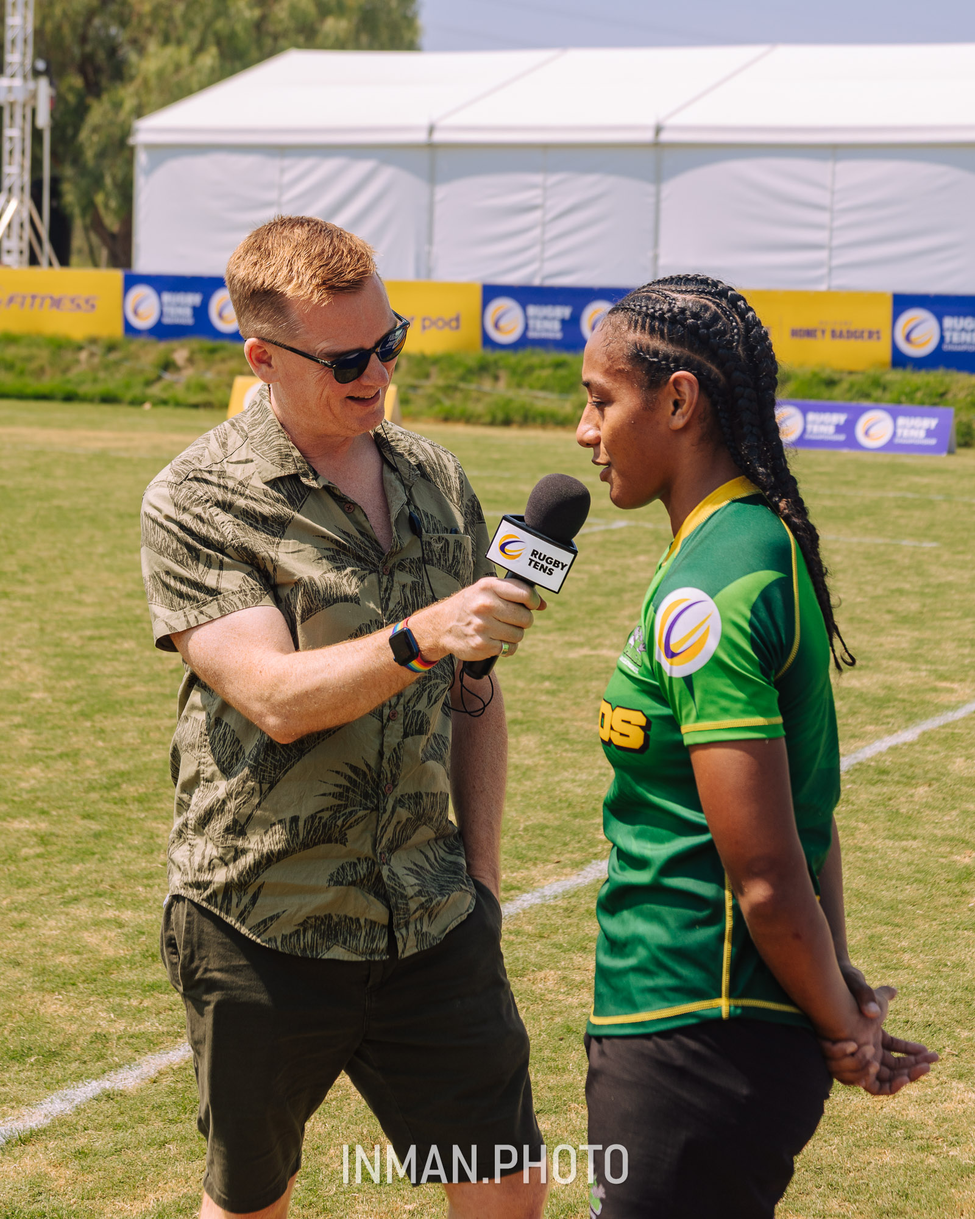
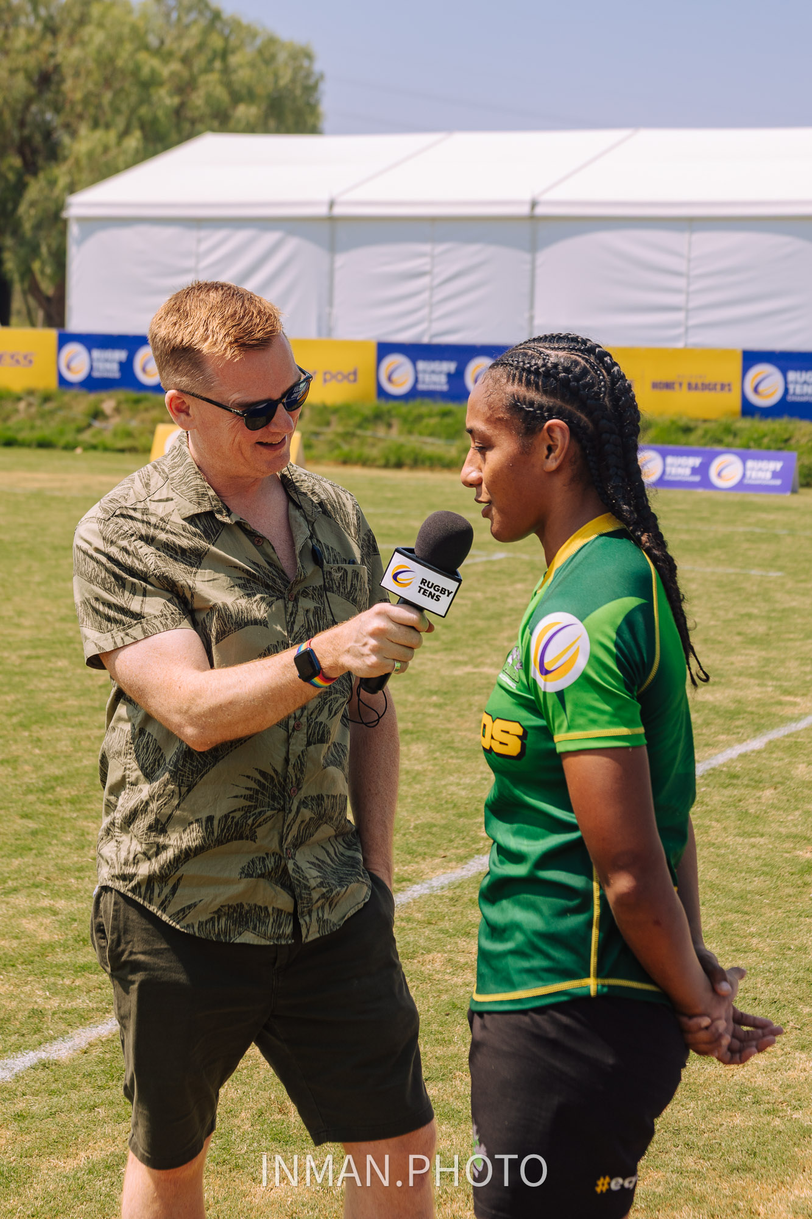
Photo replaced

diff --git a/index.html b/index.html
@@ -17,6 +17,7 @@
   <link rel="preconnect" href="https://fonts.gstatic.com" crossorigin />
   <link rel="preconnect" href="https://fonts.googleapis.com" />
   <link href="https://fonts.googleapis.com/css2?family=Signika:wght@400;700&display=swap" rel="stylesheet">
+  <link href="https://fonts.googleapis.com/css2?family=Lora:wght@700&display=swap" rel="stylesheet">
   <!-- End - Fonts -->
   <!-- Start - Fancybox Scripts -->
   <script src="https://cdn.jsdelivr.net/npm/@fancyapps/ui@5.0/dist/fancybox/fancybox.umd.js"></script>
@@ -34,6 +35,7 @@
                   fontFamily: {
                     'nothingyoucoulddo': ['Nothing You Could Do', 'cursive'],
                     'signika': ['Signika', 'sans-serif'],
+                    'lora': ['Lora', 'serif']
                   },
                 },
       },
@@ -50,7 +52,7 @@
     <nav id="nav" x-data="{ open: false }" role="navigation" class="w-full">
       <div class="container mx-auto flex flex-wrap items-center md:flex-no-wrap">
         <div class="mr-4 md:mr-8">
-          <a href="/" class="text-2xl font-signika font-bold">INMAN.PHOTO</a>
+          <a href="/" class="text-3xl font-lora font-bold">INMAN.PHOTO</a>
         </div>
         <div class="ml-auto md:hidden flex items-center justify-start">
           <button onclick="menuToggle()" @click="open = !open"
@@ -302,8 +304,8 @@
     <div class="max-w-screen-xl py-16 mx-auto">
       <div class="grid grid-cols-1 gap-8 text-center mx-auto">
         <div>
-          <p class="font-signika"><b>INMAN.PHOTO</b>
-            <br />BY JUDAH INMAN</p>
+          <p class="text-xl font-lora font-bold">INMAN.PHOTO</p>
+            <p class="font-signika">BY JUDAH INMAN</p>
           <p class="mt-4 text-sm text-gray-600 dark:text-gray-300">
             San Clemente CA<br />(949) 249- 8022
           </p>
